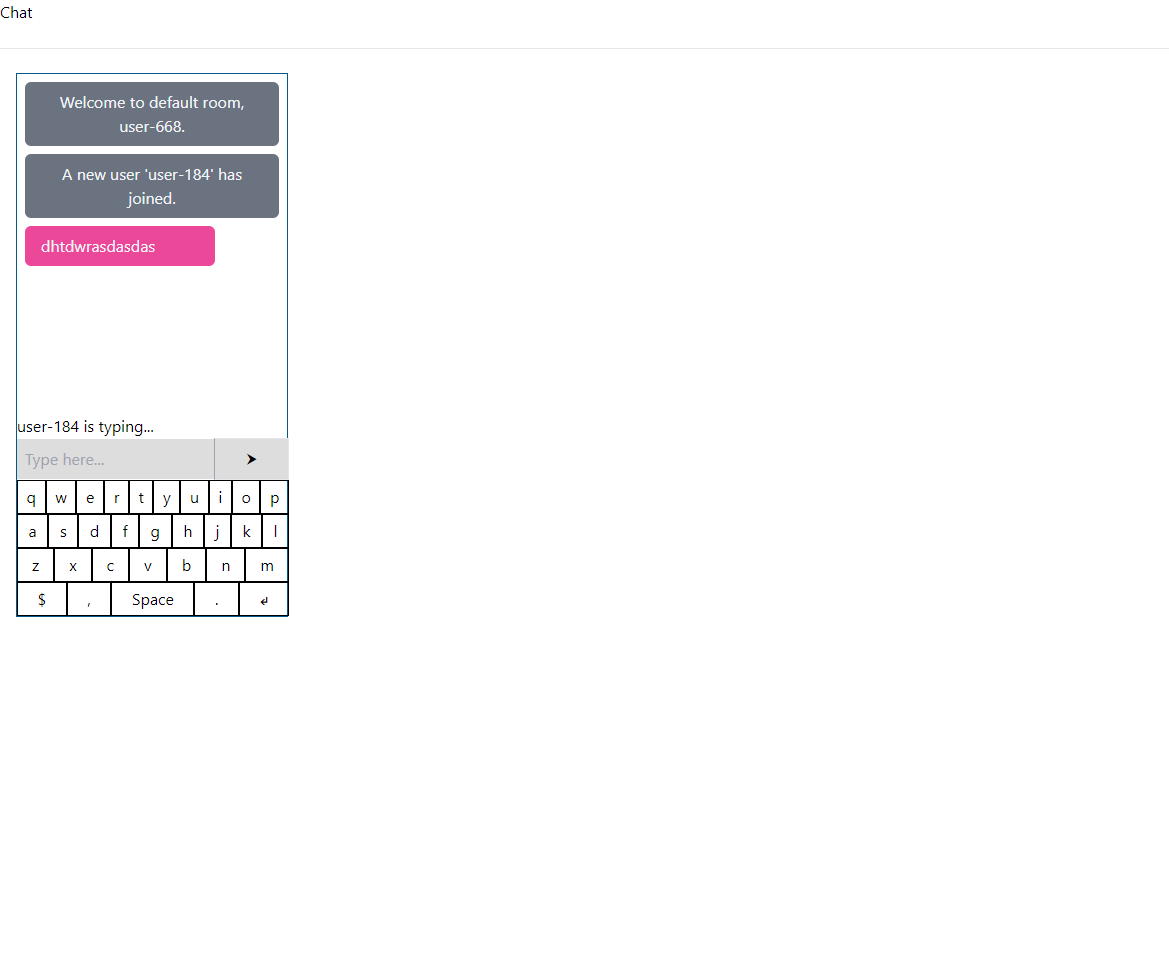
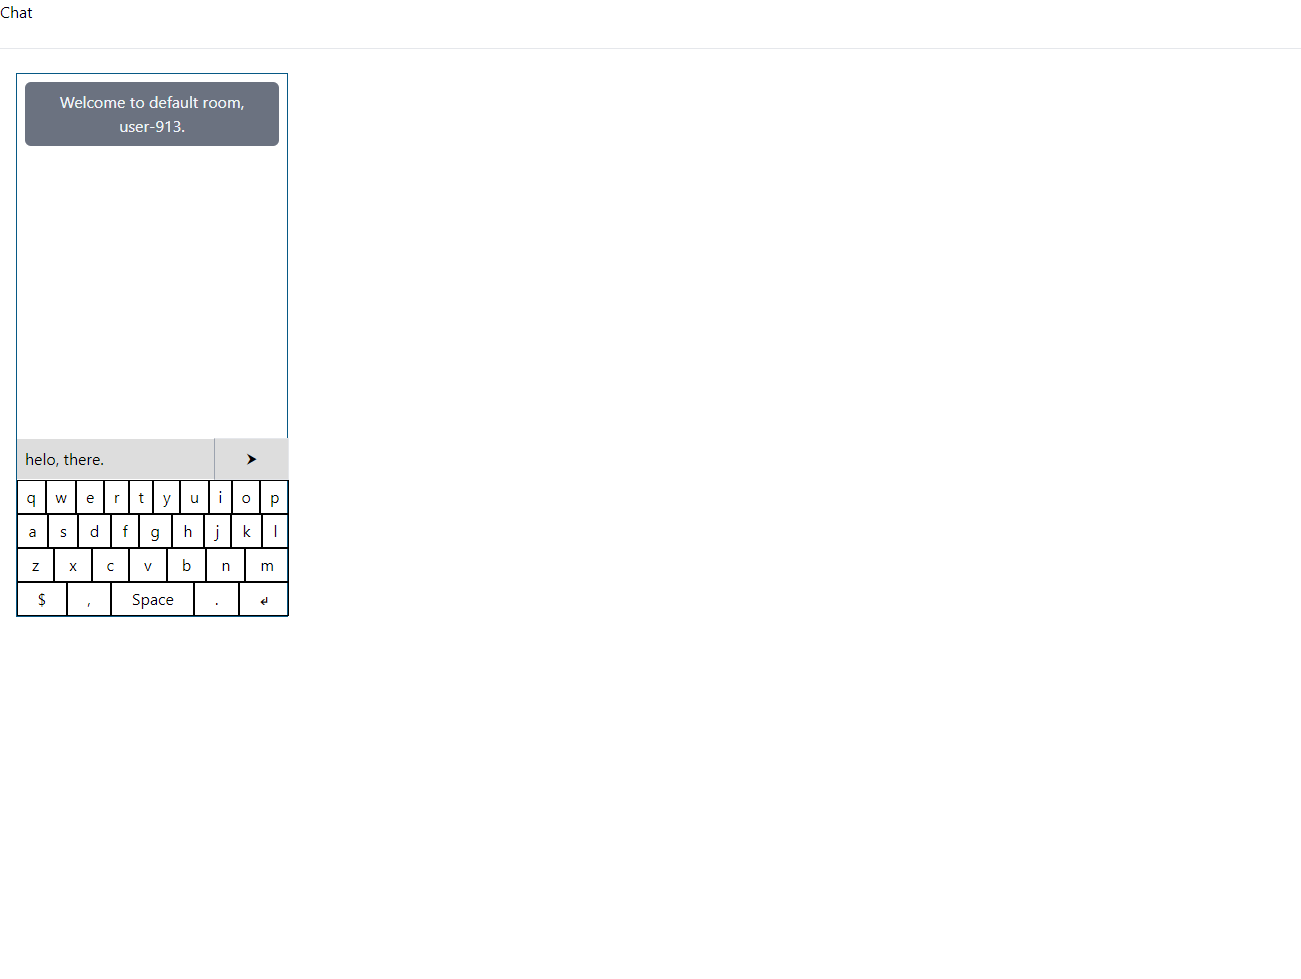
feat: added basic LinkMock

Changed region(s): [[0.0, 0.429, 0.2464, 0.6435], [0.0, 0.0613, 0.2464, 0.2758], [0.0, 0.0, 0.0308, 0.0306]]

diff --git a/client/src/components/LinkMock/LinkMock.tsx b/client/src/components/LinkMock/LinkMock.tsx
@@ -1,0 +1,88 @@
+/*
+ * COMMT:
+ * Why: Auto typing.
+ * This is a simple NeuraLink mocker to act as if user is typing keyboard via Link.
+ *
+ */
+
+import { FC, useEffect, useRef, useState } from 'react';
+import { keysGeneralLocation, locationKeysDict } from '../../helpers/keyboard';
+import Keyboard from '../Keyboard/Keyboard';
+
+interface ILinkMockProps {
+  onClickKey(el:string): void;
+  isAuto: boolean;
+}
+
+const LinkMock: FC<ILinkMockProps> = (props) => {
+
+  const firstLoad = useRef(true);
+  const newKey = useRef(['']);
+  const receivedText = useRef('');
+  const selectedText = useRef("Hello, there.");
+  const [ clickedKey, setClickedKey ] = useState('');
+  const [ isRefresh, setIsRefresh ] = useState(0);
+  const [ currTextState, setCurrTextState ] = useState('');
+  const [ isRefresh2, setIsRefresh2 ] = useState(0);
+  const [ idx, setIdx ] = useState(0);
+
+  useEffect(() => {
+    if (firstLoad.current) {
+      activateLinkMock();
+
+      firstLoad.current = false;
+    };
+  }, []);
+
+  useEffect(() => {
+    const timer = setInterval(() => {
+      setIdx(p=>p+1);
+    }, 1000);
+
+    return() => clearInterval(timer);
+  }, []);
+
+  function activateLinkMock() {
+    selectedText.current?.toLowerCase()?.split('')?.forEach((currSelText, i) => {
+      // COMMT: Takes 'h', 'e' etc and returns '2b', '1a' etc.
+      const currGenLocation:string = keysGeneralLocation[currSelText];
+      // COMMT: Takes '2b', '1a' etc and returns ['f', 'g', 'h'], ['q', 'w', 'e'] etc.
+      const currLocationKeys:string[] = Object?.values(locationKeysDict[currGenLocation]);
+
+      // COMMT: Loops through ['f', 'g', 'h'], ['q', 'w', 'e'] etc.
+      //  COMMT: and if selected text matches searched text then
+      //  COMMT: dispatch it to keyboard for auto typing
+      currLocationKeys?.forEach((currText:any) => {
+        if (currSelText === currText) {
+
+          new Promise((res, rej) => {
+            res(currText);
+          })
+          .then((res:any) => {
+              // if (isRefresh2 >= 10 || idx >= 10) return
+              // setClickedKey(res);
+              receivedText.current = receivedText.current + res;
+              setIsRefresh2(p=>p+1);
+              return;
+          });
+        };
+      });
+
+    });
+
+  };
+
+
+  return (
+    <>
+      <Keyboard
+        isAuto={props.isAuto}
+        // clickKey={clickedKey}
+        clickKey={receivedText.current?.substring(idx-1, idx)}
+        onClickKey={props.onClickKey}
+      />
+    </>
+  )
+};
+
+export default LinkMock;

diff --git a/client/src/pages/Chat/Chat.tsx b/client/src/pages/Chat/Chat.tsx
@@ -2,7 +2,8 @@ import { Socket } from 'socket.io-client';
 import { FC, useEffect, useRef, useState } from 'react';
 import Messages from '../../components/Messages/Messages';
 import InputBtn from '../../components/InputBtn/InputBtn';
-import Keyboard from '../../components/Keyboard/Keyboard';
+import LinkMock from '../../components/LinkMock/LinkMock';
+// import Keyboard from '../../components/Keyboard/Keyboard';
 import { keysDict } from '../../helpers/keyboard';
 import { uuid } from '../../helpers/misc';
 import { TStateCount, TFrom, ESocketEventsDict, IClientMessageData, IUser } from '../../types/global';
@@ -41,7 +42,7 @@ const Chat: FC<IChatProps> = (props) => {
   const users:IUser[] = [];
   const timeout:any = useRef(null);
   const isKeyboard = true;
-  const isAuto = false;
+  const [ isAuto, setIsAuto ] = useState(false);
   const [ clickedKey, setClickedKey ] = useState('');
   // const timeout = useRef<NodeJS.Timeout | null>(null);
 
@@ -208,7 +209,7 @@ const Chat: FC<IChatProps> = (props) => {
 
     if (newMessageData.messageText === '') return;
 
-    console.log('newMessageData', newMessageData);
+    // console.log('newMessageData', newMessageData);
 
     const dataNotEmpty = Object.keys(newMessageData)?.length;
 
@@ -239,8 +240,18 @@ const Chat: FC<IChatProps> = (props) => {
     // COMMT: TODO: send data
     if (keysDict[currKey]==='Enter') return;
 
-    // console.log('chat', keysDict[currKey]);
-    setClickedKey(keysDict[currKey]);
+    if (currKey.length === 0) {
+      console.log('currKey 1', currKey);
+      setClickedKey(keysDict[currKey]);
+    } else {
+
+      // COMMT: Auto mode
+      setIsAuto(prev => !prev);
+      currKey.split('')?.forEach((el) => {
+        const newVal = keysDict[el] || ' ';
+        setClickedKey(newVal);
+      })
+    }
     return;
   };
 
@@ -260,11 +271,14 @@ const Chat: FC<IChatProps> = (props) => {
             onClickKey={clickedKey}
             onNewMessage={(messageText)=>handleAddMessageToList('self', messageText)}
             setOnTyping={setOnTyping}
+            isAuto={isAuto}
           />
           {
-            isKeyboard && !isAuto && (
-              <Keyboard
+            //  && !isAuto
+            isKeyboard && (
+              <LinkMock
                 onClickKey={handleClickKey}
+                isAuto={isAuto}
               />
             )
           }

diff --git a/client/src/components/Keyboard/Keyboard.tsx b/client/src/components/Keyboard/Keyboard.tsx
@@ -1,30 +1,45 @@
 
-import { FC, useEffect, useState } from 'react';
+import { FC, useEffect, useRef, useState } from 'react';
 import { keysDict } from '../../helpers/keyboard';
-import { uuid } from '../../helpers/misc';
 import styles from './Keyboard.module.scss';
 
 interface IKeyboardProps {
-  onClickKey(el: string): void;
+  isAuto: boolean;
+  clickKey: string;
+  onClickKey(currKey: string): void;
 }
 
 const Keyboard: FC<IKeyboardProps> = (props) => {
+  const clickKeyRef = useRef('');
+
+  useEffect(() => {
+    console.log('props.clickKey :>> ', props.clickKey);
+    if (!props?.clickKey) return;
+    clickKeyRef.current = props?.clickKey;
+    if (!props.isAuto) {
+      props.onClickKey(clickKeyRef.current);
+    } else {
+      setTimeout(() => {
+        props.onClickKey(clickKeyRef.current);
+      }, 100);
+    }
+  }, [props.clickKey]);
 
   return (
     <div className={styles['keys-container']} >
       {
-        Object.keys(keysDict)?.map((el, idx) => (
+        Object.keys(keysDict)?.map((currKey, idx) => (
           <>
             <div
-              key={uuid(6)}
+              key={idx}
               className={styles['key']}
               aria-hidden={true}
-              onClick={() => props.onClickKey(el)}
+              onClick={() => props.onClickKey(currKey)}
             >
-              {el}
+              {currKey}
             </div>
-            {(el === 'p' || el === 'l' || el === 'm') && (
-              <div key={uuid(6)} className={styles['line-break']}>
+            {(currKey === 'p' || currKey === 'l' || currKey === 'm') && (
+              <div key={idx} className={styles['line-break']}>
               </div>
             )}
           </>

diff --git a/client/src/helpers/keyboard.ts b/client/src/helpers/keyboard.ts
@@ -4,3 +4,17 @@ export const keysDict:{[key:string]:string} = {
   'z':'z', 'x':'x', 'c':'c', 'v':'v', 'b':'b', 'n':'n', 'm':'m',
   '$':'$', ',':',', 'Space':' ', '.':'.', '↵':'Enter'
 };
+
+export const keysGeneralLocation:{[key:string]:string} = {
+  'q':'1a', 'w':'1a', 'e':'1a', 'r':'1b', 't':'1b', 'y':'1b', 'u':'1b', 'i':'1c', 'o':'1c', 'p':'1c',
+  'a':'2a', 's':'2a', 'd':'2a', 'f':'2b', 'g':'2b', 'h':'2b', 'j':'2c', 'k':'2c', 'l':'2c',
+  'z':'3a', 'x':'3a', 'c':'3b', 'v':'3b', 'b':'3b', 'n':'3c', 'm':'3c',
+  '$Sym':'4a', ',':'4a', ' ':'4b', '.':'4c', 'Enter':'4c'
+};
+
+export const locationKeysDict: {[key:string]: string[]} = {
+  '1a': ['q','w','e'], '1b': ['r','t','y', 'u'], '1c': ['i','o','p'],
+  '2a': ['a','s','d'], '2b': ['f','g','h'], '2c': ['j','k','l'],
+  '3a': ['z','x'], '3b': ['c','v','b'], '3c': ['n','m'],
+  '4a': ['$Sym',','], '4b': [' '], '4c': ['.', 'Enter'],
+};

diff --git a/client/src/components/LinkMock/LinkMockSlice.ts b/client/src/components/LinkMock/LinkMockSlice.ts
@@ -1,0 +1,24 @@
+import { createSlice } from '@reduxjs/toolkit';
+import type { PayloadAction } from '@reduxjs/toolkit';
+
+export interface ILinkMockState {
+  clickedKeyRdx: string;
+}
+
+const initialState:ILinkMockState = {
+  clickedKeyRdx: 'hello from redux'
+};
+
+export const linkMockSlice = createSlice({
+  name: 'linkMock',
+  initialState,
+  reducers: {
+    setClickedKeyRdx: (state, action: PayloadAction<string>) => {
+      state.clickedKeyRdx += action.payload
+    },
+  },
+});
+
+export const { setClickedKeyRdx } = linkMockSlice.actions;
+
+export default linkMockSlice.reducer;

diff --git a/client/src/components/InputBtn/InputBtn.tsx b/client/src/components/InputBtn/InputBtn.tsx
@@ -5,13 +5,14 @@ interface IInputBtnProps {
   onNewMessage: (e:string) => void;
   onClickKey: any;
   setOnTyping: any;
+  isAuto: boolean;
 }
 
 const InputBtn: FC<IInputBtnProps> = (props) => {
   const [ newMessageText, setNewMessageText ] = useState('');
 
   useEffect(() => {
-    console.log('props.onClickKey :>> ', props.onClickKey);
+    if (!props.onClickKey) return;
     handleChange(false, props.onClickKey);
   }, [props.onClickKey]);
 

diff --git a/client/.eslintrc.js b/client/.eslintrc.js
@@ -28,8 +28,9 @@ module.exports = {
     'react/jsx-uses-react': 'off',
     'react/react-in-jsx-scope': 'off',
     '@typescript-eslint/explicit-module-boundary-types': 'off',
-    indent: ['error', 2],
-    '@typescript-eslint/indent': ['error', 2],
-    'max-len': ['error', { code: 120 }],
+    indent: 'off',
+    // indent: ['error', 2],
+    // '@typescript-eslint/indent': ['error', 2],
+    'max-len': ['error', { code: 320 }],
   },
 }

diff --git a/client/src/index.tsx b/client/src/index.tsx
@@ -1,5 +1,7 @@
 import React from 'react';
 import ReactDOM from 'react-dom/client';
+import { Provider } from 'react-redux';
+import { store } from './store/store';
 import App from './App';
 import './styles/index.css';
 
@@ -9,6 +11,8 @@ const root = ReactDOM.createRoot(
 
 root.render(
   <React.StrictMode>
-    <App />
+    <Provider store={store}>
+      <App />
+    </Provider>
   </React.StrictMode>
 );

diff --git a/client/src/store/store.ts b/client/src/store/store.ts
@@ -1,0 +1,12 @@
+import { configureStore } from '@reduxjs/toolkit';
+import linkMockReducer from '../components/LinkMock/LinkMockSlice';
+
+export const store = configureStore({
+  reducer: {
+    linkMock: linkMockReducer,
+  },
+});
+
+export type RootState = ReturnType<typeof store.getState>;
+
+export type AppDispatch = typeof store.dispatch;
